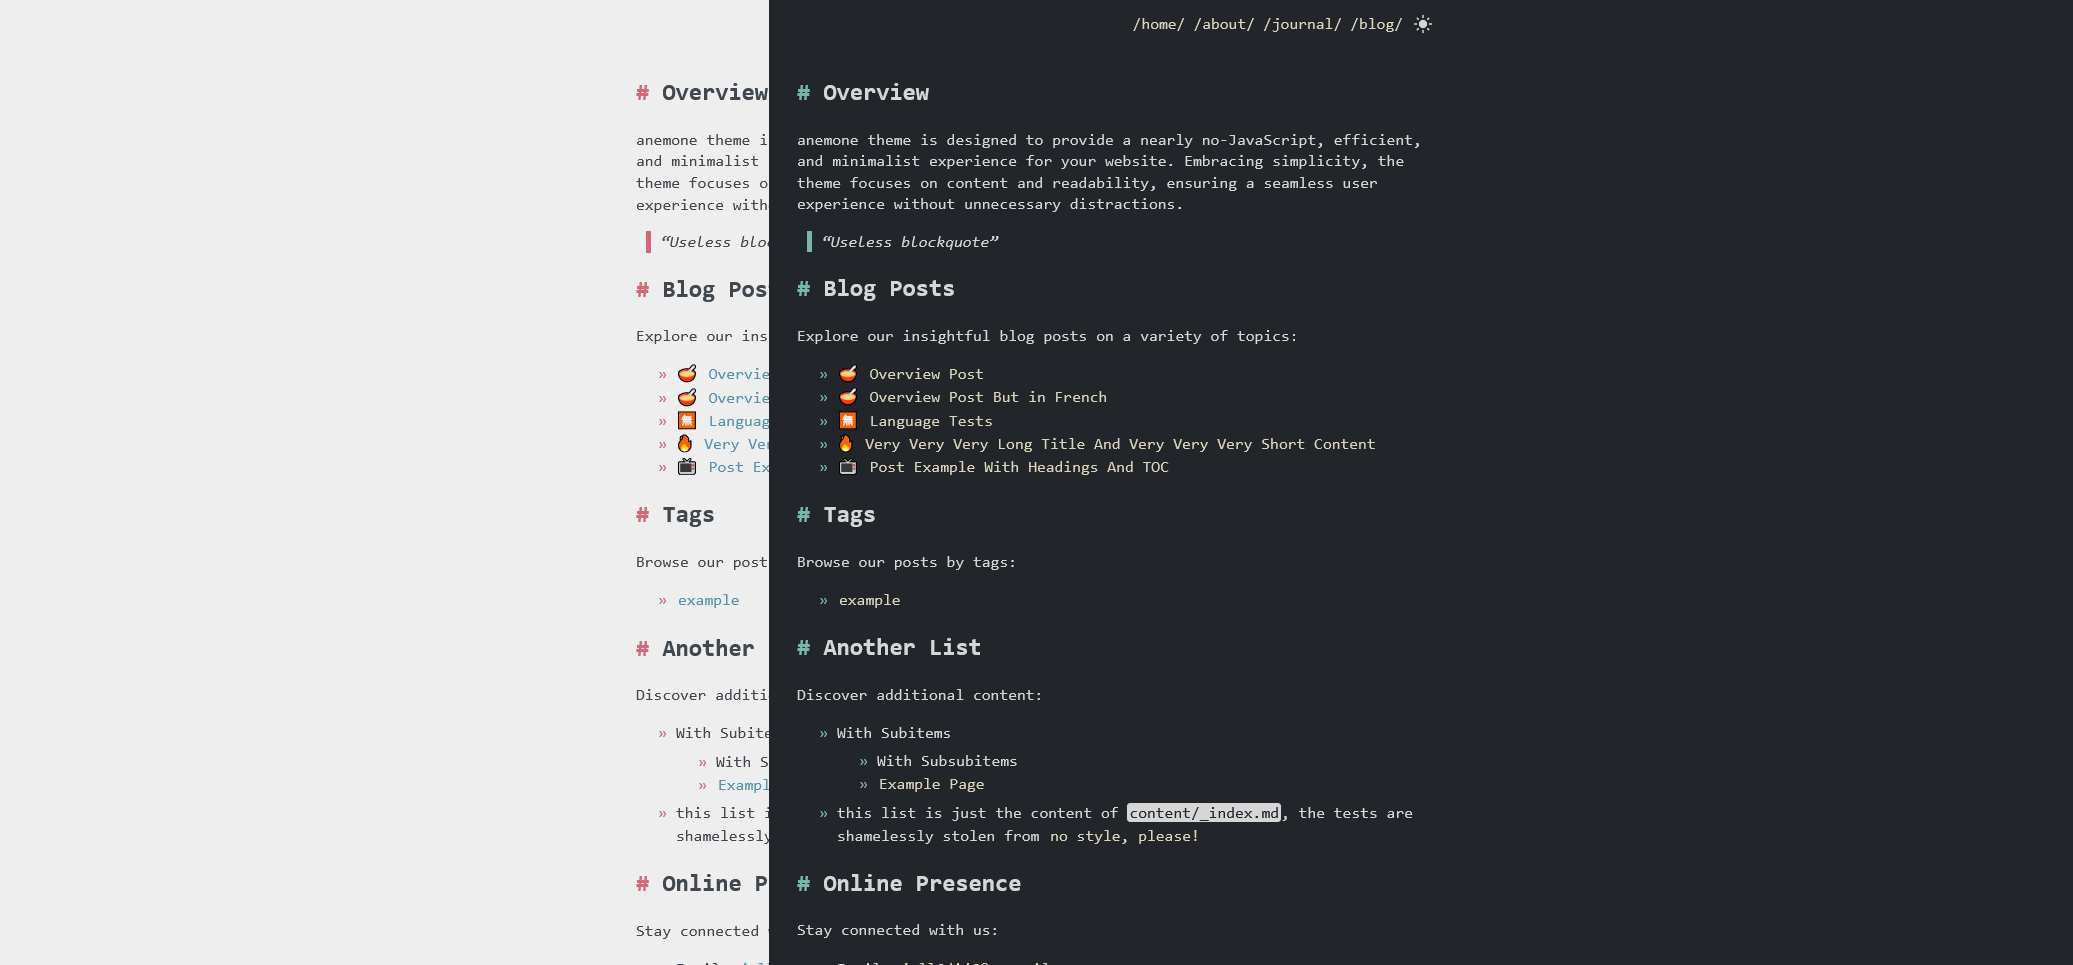
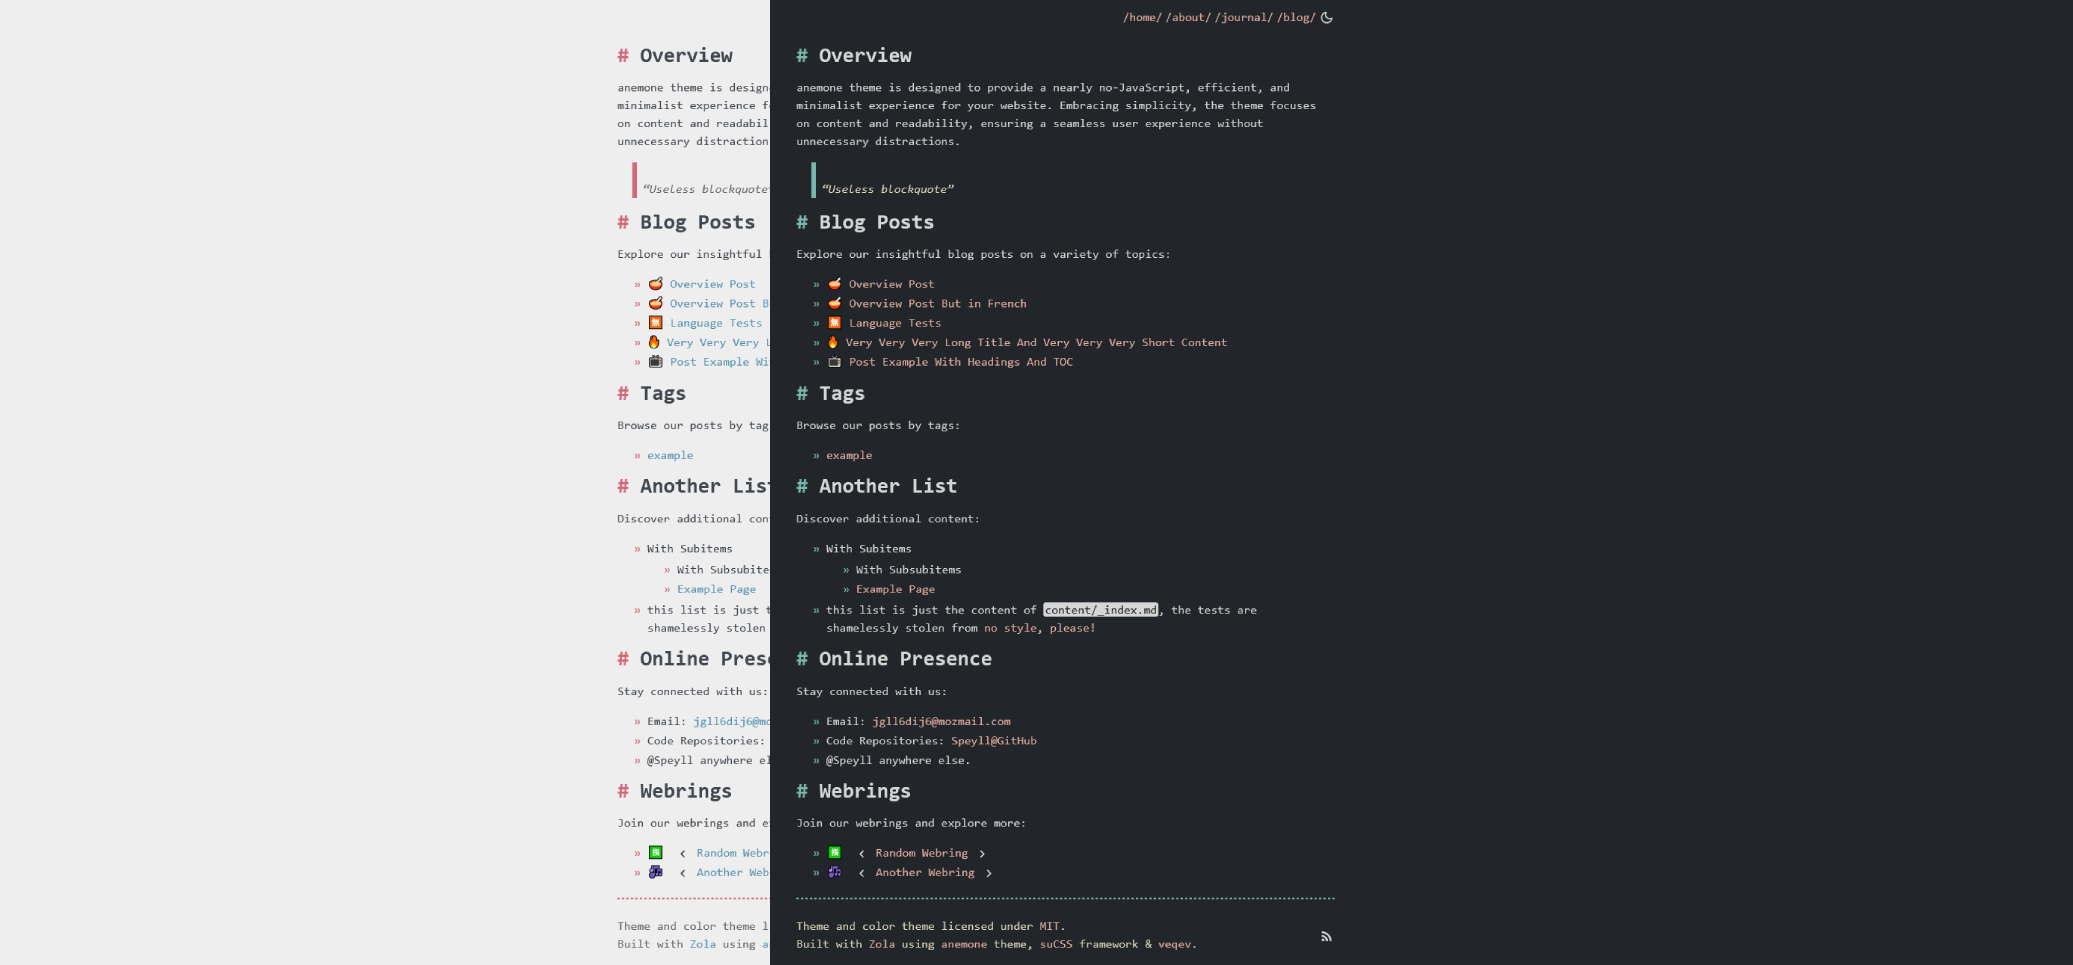
updated README

diff --git a/templates/footer.html b/templates/footer.html
@@ -11,8 +11,9 @@
   {% endif %}
   <div>
     <p>Theme and color theme licensed under <a target="_blank" rel="noopener noreferrer" href="https://en.wikipedia.org/wiki/Licence_MIT">MIT</a>.<br>
-      Built with <a target="_blank" rel="noopener noreferrer" href="https://www.getzola.org">Zola</a> using <a target="_blank" rel="noopener noreferrer" href="https://github.com/Speyll/anemone">anemone</a> theme &amp; <a target="_blank" rel="noopener noreferrer" href="https://github.com/Speyll/veqev">veqev</a> colors.<br>
+      Built with <a target="_blank" rel="noopener noreferrer" href="https://www.getzola.org">Zola</a> using <a target="_blank" rel="noopener noreferrer" href="https://github.com/Speyll/anemone">anemone</a> theme, <a target="_blank" rel="noopener noreferrer" href="https://speyll.github.io/suCSS/">suCSS</a> framework &amp; <a target="_blank" rel="noopener noreferrer" href="https://github.com/Speyll/veqev">veqev</a>.<br>
     </p>
+
   </div>
   {% if config.generate_feed %}
   <div>

diff --git a/README.md b/README.md
@@ -26,6 +26,22 @@ git clone https://github.com/Speyll/anemone
 theme = "anemone"
 ```
 
+## Release Notes
+
+#### 02-03-2024
+This release brings several improvements and enhancements, focusing mainly on optimizing performance and user experience. Here's a summary of the key changes:
+
+- **suCSS Integration:** The core CSS now leverages the lightweight [suCSS framework](https://speyll.github.io/suCSS/) made by yours truly, providing better maintainability, robustness, and scalability. With suCSS, the theme should maintain consistent appearance across different browsers.
+
+- **Enhanced Theme Toggle:** The dark and light theme toggle has been revamped for more consistency. Now, the website respects the user's system-wide theme settings, ensuring a seamless experience. Additionally, the toggle retains the selected theme for future visits, offering improved usability.
+
+- **Smooth Transition and Sound Effect:** Enjoy a smoother transition between the dark and light mode accompanied by a subtle sound effect. Rest assured, the added sound effect incurs minimal performance overhead, with the file size being just 1kb.
+
+- **Class Names and Shortcodes Update:** Some class names and shortcodes have been modified for better organization and clarity. I apologize for any inconvenience this may cause.
+
+- **Slight change in Color Choice:** Some dark mode colors have been changed for the sake of readability, still using [veqev](https://github.com/Speyll/veqev).
+
+
 ### Options
 
 Anemone provides various options to customize your website:
@@ -74,13 +90,13 @@ header_nav = [
 ]
 ```
 
-#### Default Theme
+#### Add Table of Contents (TOC) to Pages
 
-To configure the default theme, simply utilize the `default_theme` variable and set it to either `light` or `dark`:
+In a page's frontmatter, set `extra.toc` to `true`:
 
 ```toml
 [extra]
-default_theme = "light"
+toc = true
 ```
 
 #### Display Author Name in Blog Posts
@@ -100,18 +116,9 @@ Add a webring with a shortcode:
 {{ webring(prev="#", webring="#", webringName="Random Webring", next="#") }}
 ```
 
-#### Add Table of Contents (TOC) to Pages
-
-In a page's frontmatter, set `extra.toc` to `true`:
-
-```toml
-[extra]
-toc = true
-```
-
 ### Extra Data
 
-- Set the `author` in both the main config and in pages' metadata.
+- Set the `author` in both the main config and in pages metadata.
 - Use the `image` variable in pages to add an image to HTML `<meta>` tags.
 - Similarly, set `favicon` in the main config, and it will be used as the site icon.
 - Set `footer_content_license` and `footer_content_license_link` if you wish to display content license information in the footer.
